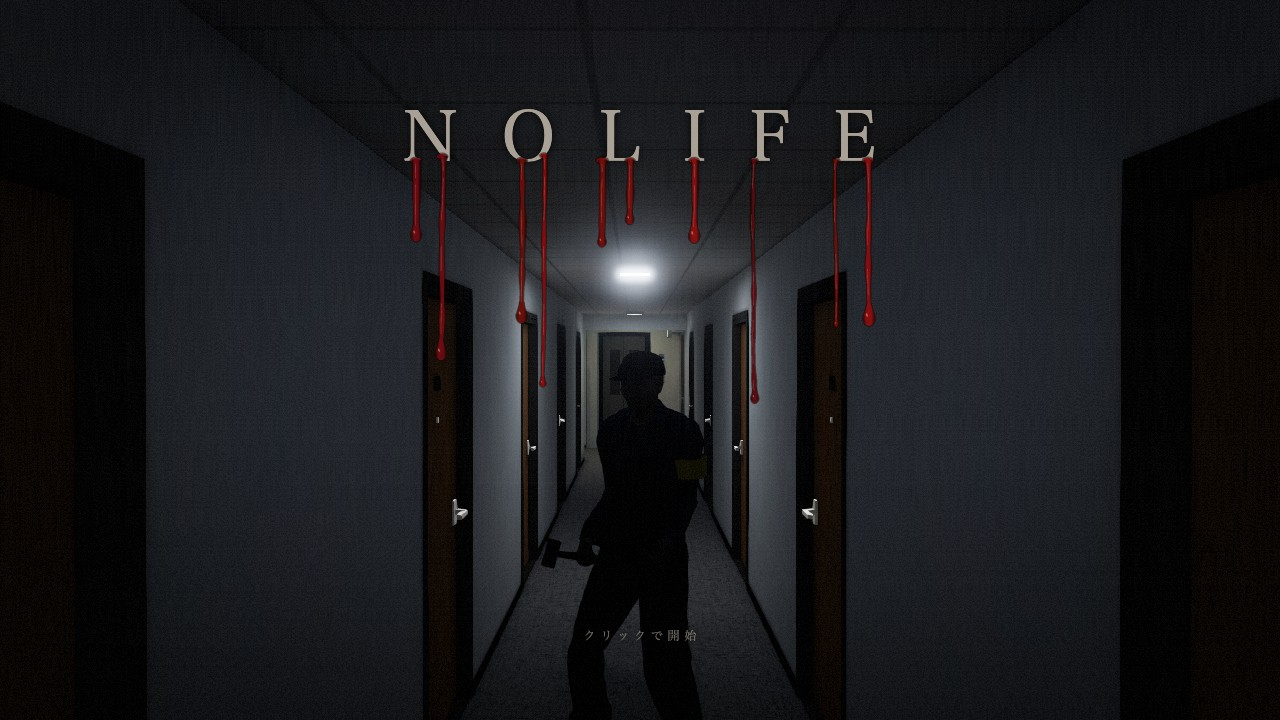
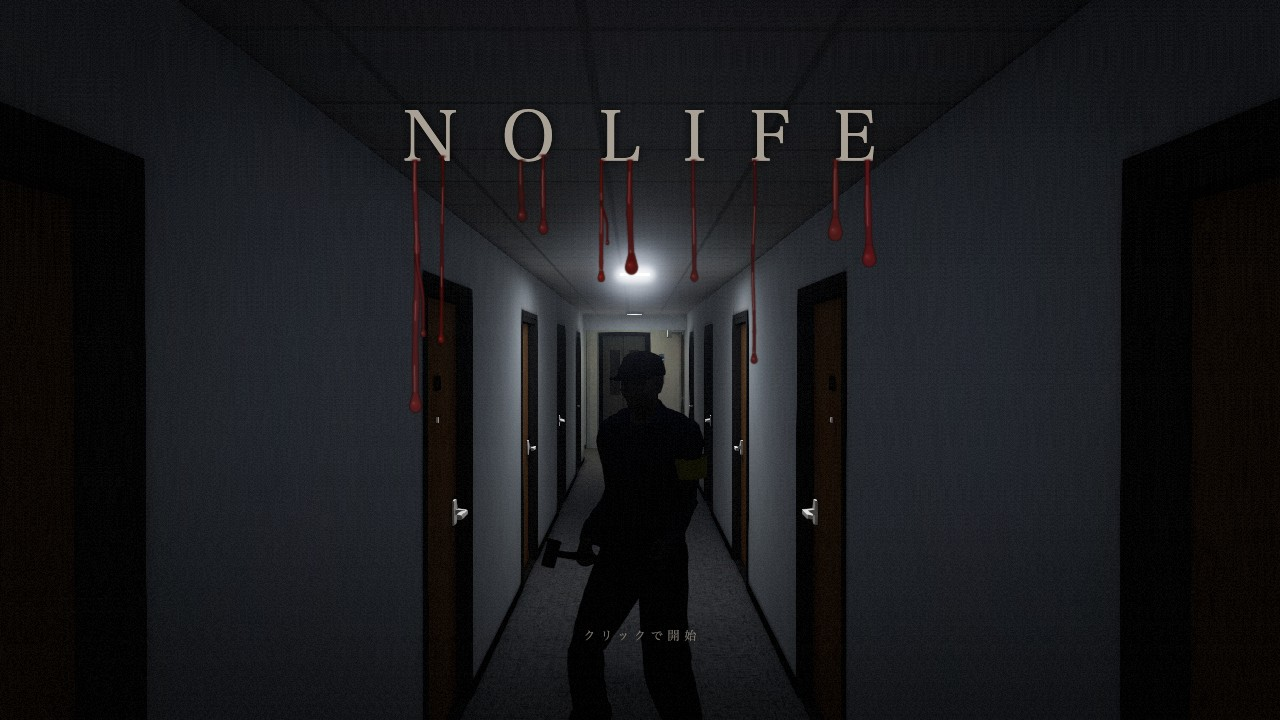
P6b-F1: #1 タイトルの血を描き直し(差し戻し: 朱色・一様・真っ直ぐ → 暗い赤・太さ不均一・揺れと枝分かれ)
- 色: 基調 #4a0808〜#7a1010、玉だけ #8a1414。筋は上 0.95 → 下 0.7 の半透明＋暗い下地で背景を沈める。伸び切って 10 秒で乾く(彩度 −30%・明度 −20%)
- 形: 幅 2〜6px、本の中で上下 1.4〜1.6 倍、1〜2px の低周波の揺れ、2 本が枝分かれ、先端は幅 1.6 倍のしずく形、出所は文字の下端の薄い横の溜まり(8〜14px)
- 質感: 縁 1px #2a0404、1px・0.25 の艶、血の層を 0.6px ぼかして重ねる
- 動き: 2〜3 本が途中で 3〜8 秒止まって再び流れる
- 30 秒の滴の平均色 R 68.7・G 26.9・B 28.3。?test=tutorial 0 番に止まる本・枝・乾きの検査を追加(6/6)。スクショ 15・30 秒を撮り直し

diff --git a/src/title.js b/src/title.js
@@ -24,7 +24,7 @@ export const TITLE = {
   flicker: { every: [3, 8], dur: [0.2, 0.6], blinks: [2, 4] },
   outage: { every: [20, 40], dur: [0.4, 0.8], back: 0.1, lm: 0.02, amb: 0.5, expo: 0.6, enemyLamp: 0.12 },   // 消えている間は環境光と露出も落とす(真っ黒に近く、管理人の輪郭だけ僅かに)
   text: { size: 0.096, y: 0.19, spacing: 0.62, color: '#a9a196', font: '"Hiragino Mincho ProN", "Yu Mincho", "YuMincho", serif', in: 3.2, delay: 0.4 },
-  blood: { n: [8, 10], w: [3, 6], start: 2.2, done: [20, 30], len: [0.07, 0.36] },   // 太さは CSS px、長さは画面の高さの割合
+  blood: { n: [8, 10], w: [2, 6], start: 2.2, done: [20, 30], len: [0.07, 0.36], stall: [3, 8], stalls: [2, 3], branches: 2, dry: 10, blur: 0.6 },   // 太さは CSS px、長さは画面の高さの割合
 };
 
 const CSS = `
@@ -275,7 +275,17 @@ export class Title {
     g.drawImage(this.bg.ink.text, 0, 0);
     g.restore();
     this._dripModel(t);
-    for (const d of this.bg.drips) drawDrip(g, d, dpr, alpha);   // 太さは CSS px(3〜6px)
+    // 血は別の層に描いてから僅かにぼかして重ねる(線の縁が硬い「定規の線」に見えないように)
+    let L = this.bg.inkBlood;
+    if (!L || L.width !== W || L.height !== H) { L = this.bg.inkBlood = document.createElement('canvas'); L.width = W; L.height = H; }
+    const lg = L.getContext('2d');
+    lg.clearRect(0, 0, W, H);
+    for (const d of this.bg.drips) drawDrip(lg, d, dpr);   // 太さは CSS px(2〜6px)
+    g.save();
+    g.globalAlpha = alpha;
+    g.filter = `blur(${(TITLE.blood.blur * dpr).toFixed(2)}px)`;
+    g.drawImage(L, 0, 0);
+    g.restore();
   }
 
   // 文字を描いた層と、文字の下端(列ごとの一番下の画素)から選んだ滴の起点
@@ -323,13 +333,18 @@ export class Title {
         }
       }
       used.sort((a, b) => a[0] - b[0]);
-      B.drips = used.map((b) => makeDrip(R, b[0] / W, b[1] / H, D));
+      // 途中で長く止まる本(2〜3 本)と枝分かれする本(2 本)を先に決める
+      const order = used.map((_, i) => i).sort(() => R() - 0.5);
+      const nStall = D.stalls[0] + Math.floor(R() * (D.stalls[1] - D.stalls[0] + 1));
+      const stallSet = new Set(order.slice(0, nStall)), branchSet = new Set(order.slice(nStall, nStall + D.branches));
+      B.drips = used.map((b, i) => makeDrip(R, b[0] / W, b[1] / H, D, { stall: stallSet.has(i), branch: branchSet.has(i) }));
     }
     for (const d of B.drips) {
       const tt = t - D.start - d.delay;
       d.len = d.L * lenAt(d, tt);
       d.done = tt >= d.T;
       d.pool = d.done ? smooth((tt - d.T) / 2.0) : 0;
+      d.dry = d.done ? Math.min(1, (tt - d.T) / D.dry) : 0;   // 伸び切ってから D.dry 秒で乾いて暗くなる
     }
   }
 
@@ -338,29 +353,41 @@ export class Title {
     return { active: this.active, shown: !!this.root, leaving: !!this.leaving, name: this.root ? this.root.querySelector('.name').textContent : null,
       start: this.root ? this.root.querySelector('.start').textContent : null,
       bg: B ? { t: +B.t.toFixed(2), ready: B.ready, flicks: B.flicks, outs: B.outs, lights: B.lights, black: +(this.blackV ?? 1).toFixed(3),
-        drips: B.drips ? B.drips.map((d) => ({ x: +d.x.toFixed(3), len: +d.len.toFixed(4), L: +d.L.toFixed(4), w: +d.w.toFixed(2), T: +(d.delay + d.T).toFixed(2), done: d.done })) : null } : null };
+        drips: B.drips ? B.drips.map((d) => ({ x: +d.x.toFixed(3), len: +d.len.toFixed(4), L: +d.L.toFixed(4), w: +d.w.toFixed(2), wTop: +d.wTop.toFixed(2), wBot: +d.wBot.toFixed(2), T: +(TITLE.blood.start + d.delay + d.T).toFixed(2), done: d.done, dry: +d.dry.toFixed(2), stall: d.stallSec ? +d.stallSec.toFixed(2) : 0, branch: !!d.br })) : null } : null };
   }
 }
 
 // ---------------------------------------------------------------- 滴(1 本)
-// 伸びの予定: 動く区間と止まる区間を交互に(本ごとに区間の数・長さ・速さが違う)。delay + T 秒で長さ L に着く(T + delay は 20〜30 秒)
-function makeDrip(R, x, y, D) {
+// 伸びの予定: 動く区間と止まる区間を交互に(本ごとに区間の数・長さ・速さが違う)。delay + T 秒で長さ L に着く(T + delay は 20〜30 秒)。
+//  opts.stall = 途中で 3〜8 秒止まってから再び流れる本、opts.branch = 途中から細い枝が分かれる本
+function makeDrip(R, x, y, D, opts = {}) {
   const done = D.done[0] + (D.done[1] - D.done[0]) * R();
   const delay = R() * 3.0, T = done - D.start - delay;
-  const n = 3 + Math.floor(R() * 4);            // 動く区間の数
+  const n = 3 + Math.floor(R() * 3);            // 動く区間の数
   const seg = [];
   for (let i = 0; i < n; i++) {
     seg.push({ move: true, w: 0.6 + R() * 1.6, d: 0.3 + R() ** 1.7 * 1.6 });     // 区間の時間の重み・進む量の重み
-    if (i < n - 1) seg.push({ move: false, w: 0.4 + R() * 2.2 });
+    if (i < n - 1) seg.push({ move: false, w: 0.15 + R() * 0.5 });             // 短いためらい
   }
-  const tw = seg.reduce((a, s) => a + s.w, 0), dw = seg.reduce((a, s) => a + (s.move ? s.d : 0), 0);
+  const dw = seg.reduce((a, s) => a + (s.move ? s.d : 0), 0);
+  // 長く止まる本: 真ん中あたりの止まる区間を 3〜8 秒に(残りの時間を動く区間に配る)
+  let stallSec = 0, longIdx = -1;
+  if (opts.stall) { stallSec = D.stall[0] + (D.stall[1] - D.stall[0]) * R(); longIdx = 2 * Math.floor(R() * (n - 1)) + 1; }   // 止まる区間(奇数番)のどれか
+  const restW = seg.reduce((a, s, i) => a + (i === longIdx ? 0 : s.w), 0), restT = T - stallSec;
   let t = 0, l = 0;
-  for (const s of seg) { s.t0 = t; t += s.w / tw * T; s.t1 = t; s.l0 = l; if (s.move) l += s.d / dw; s.l1 = l; }
-  const L = D.len[0] + (D.len[1] - D.len[0]) * R() ** 1.3;
+  seg.forEach((s, i) => { s.t0 = t; t += i === longIdx ? stallSec : s.w / restW * restT; s.t1 = t; s.l0 = l; if (s.move) l += s.d / dw; s.l1 = l; });
+  const L = D.len[0] + (D.len[1] - D.len[0]) * R() ** 1.3;   // 長さが 7〜36% で時間は 20〜30 秒 = 速さは本ごとに 0.5〜2 倍以上違う
   const w = D.w[0] + (D.w[1] - D.w[0]) * R();
+  // 上下で幅が約 1.5 倍変わる(上は細い筋、下へ行くほど重さで太り、玉になる)
+  const wTop = w * (0.66 + 0.08 * R()), wBot = w * (1.06 + 0.12 * R());
   const k = R();
-  const rgb = [90 + k * 48 | 0, 10 + R() * 8 | 0, 10 + R() * 8 | 0];   // #5a0a0a〜#8a1212
-  return { x, y, L, w, T, delay, seg, rgb, wob: R() * 6.28, wobA: 0.25 + R() * 0.55, len: 0, done: false, pool: 0, k };
+  const rgb = [74 + k * 48 | 0, 8 + R() * 8 | 0, 8 + R() * 8 | 0];   // #4a0808〜#7a1010
+  const dp = { x, y, L, w, wTop, wBot, T, delay, seg, rgb, k, len: 0, done: false, pool: 0, dry: 0, stallSec,
+    // 低い周波数の揺れ(1〜2px): 2 つの正弦の和
+    wob: [R() * 6.28, R() * 6.28], wobA: [0.7 + R() * 0.5, 0.3 + R() * 0.4], wobF: [0.016 + R() * 0.012, 0.04 + R() * 0.02],
+    poolW: 8 + R() * 6 };   // 文字の下端の横に薄く広がった溜まり(幅 8〜14px)
+  if (opts.branch) dp.br = { at: 0.22 + 0.25 * R(), len: 0.3 + 0.2 * R(), side: R() < 0.5 ? -1 : 1, drift: 5 + R() * 5, w: 0.5 + 0.15 * R() };
+  return dp;
 }
 function lenAt(d, tt) {
   if (tt <= 0) return 0;
@@ -374,70 +401,98 @@ function lenAt(d, tt) {
   }
   return 1;
 }
-// 描く: 濃い輪郭 → 本体(縁が暗く中央が少し明るい。止まった所は少し太い)→ 中央寄りの細い艶(途切れる)→ 先端の玉(しずく形)→ 伸び切ったら下端の溜まり
-//  太さ w は CSS px(×dpr)。長さ・位置は画面の割合
-function drawDrip(g, d, px, alpha) {
-  const W = g.canvas.width, H = g.canvas.height, s = px;
-  const x0 = d.x * W, y0 = d.y * H, len = d.len * H, w = d.w * s;
-  const [r, gg, b] = d.rgb;
-  const col = (k, a) => `rgba(${Math.min(255, r * k) | 0},${Math.min(255, gg * k) | 0},${Math.min(255, b * k) | 0},${a * alpha})`;
-  const base = col(1, 0.94), dark = col(0.34, 0.9), rim = col(0.22, 0.55);
-  const cxAt = (y) => { const u = (y - y0) / s; return x0 + (Math.sin(u * 0.045 + d.wob) * d.wobA + Math.sin(u * 0.013 + d.wob * 1.7) * d.wobA * 1.6) * s; };
-  // 止まっていた所(通り過ぎた区間)は少し膨らむ
-  const beads = d.seg.filter((q) => !q.move && q.l0 * d.L * H < len - 2 * w).map((q) => y0 + q.l0 * d.L * H);
-  const wAt = (y) => {
-    const u = (y - y0) / s;
-    let k = 0.74 + 0.1 * Math.sin(u * 0.07 + d.wob * 2) + 0.07 * Math.sin(u * 0.19 + d.wob) + 0.6 * Math.max(0, 1 - u / 7);
-    for (const by of beads) k += 0.42 * Math.exp(-(((y - by) / (2.6 * w)) ** 2));
-    return w * k;
-  };
-  g.save();
-  // 文字の下端に付いた溜まり(横に平たい)
-  g.fillStyle = rim; g.beginPath(); g.ellipse(x0, y0 + 0.5 * s, w * 1.15 + s, w * 0.62 + s, 0, 0, Math.PI * 2); g.fill();
-  g.fillStyle = base; g.beginPath(); g.ellipse(x0, y0 + 0.5 * s, w * 1.05, w * 0.52, 0, 0, Math.PI * 2); g.fill();
-  const step = Math.max(1, 1.5 * s);
-  const L = [], Rr = [];
-  if (len > step) for (let y = y0; y <= y0 + len; y += step) { const c = cxAt(y), hw = wAt(y) / 2; L.push([c - hw, y]); Rr.push([c + hw, y]); }
-  const poly = (grow) => { g.beginPath(); g.moveTo(L[0][0] - grow, L[0][1]); for (const p of L) g.lineTo(p[0] - grow, p[1]); for (let i = Rr.length - 1; i >= 0; i--) g.lineTo(Rr[i][0] + grow, Rr[i][1]); g.closePath(); };
-  // 先端の玉: しずく形(上が細く筋につながり、下が丸い)。伸び切った後は重さで少し膨らんで溜まる
-  const ty = y0 + len, tx = cxAt(ty);
-  const rx = w * (0.78 + 0.12 * Math.sin(d.k * 9)) * (1 + 0.45 * d.pool), ry = rx * (1.25 + 0.15 * d.pool);
-  const cy = ty + ry * 0.35;
-  const drop = (grow) => {
+// 色: 乾く(dry 0→1)と彩度 −30%・明度 −20%
+function dryRGB([r, g, b], dry, gain = 1) {
+  r *= gain; g *= gain; b *= gain;
+  const mx = Math.max(r, g, b), mn = Math.min(r, g, b);
+  const v = mx * (1 - 0.2 * dry), s0 = mx > 0 ? (mx - mn) / mx : 0, s = s0 * (1 - 0.3 * dry);
+  const f = (c) => { const sat = mx > mn ? (c - mn) / (mx - mn) : 0; return (v * (1 - s) + v * s * sat) | 0; };   // 同じ色相で彩度と明度を変える
+  return [Math.min(255, f(r)), Math.min(255, f(g)), Math.min(255, f(b))];
+}
+// 1 本の筋(中心線 cx(y)・幅 wAt(y))を描く: 本体(上 0.9 → 下 0.6 の半透明)→ 縁 1px の濃い輪郭(#2a0404)→ 中央の 1px の艶(アルファ 0.25)
+function drawStrand(g, cx, wAt, ya, yb, step, rgb, aTop, aBot, px, gloss = true) {
+  if (yb - ya < step) return;
+  const Lp = [], Rp = [];
+  for (let y = ya; y <= yb; y += step) { const c = cx(y), hw = wAt(y) / 2; Lp.push([c - hw, y]); Rp.push([c + hw, y]); }
+  const path = () => { g.beginPath(); g.moveTo(Lp[0][0], Lp[0][1]); for (const p of Lp) g.lineTo(p[0], p[1]); for (let i = Rp.length - 1; i >= 0; i--) g.lineTo(Rp[i][0], Rp[i][1]); g.closePath(); };
+  const [r, gg, b] = rgb;
+  // 下地: 半透明の分だけ背景を暗く沈める(血は光を吸う = 明るい天井の上でも朱色に浮かず黒ずんで見える)
+  g.fillStyle = 'rgba(8,2,2,0.7)'; path(); g.fill();
+  const gr = g.createLinearGradient(0, ya, 0, yb);
+  gr.addColorStop(0, `rgba(${r},${gg},${b},${aTop})`); gr.addColorStop(1, `rgba(${r},${gg},${b},${aBot})`);
+  g.fillStyle = gr; path(); g.fill();
+  const er = g.createLinearGradient(0, ya, 0, yb);
+  er.addColorStop(0, `rgba(42,4,4,${aTop})`); er.addColorStop(1, `rgba(42,4,4,${aBot * 0.9})`);
+  g.strokeStyle = er; g.lineWidth = px; g.lineJoin = 'round';
+  g.beginPath(); g.moveTo(Lp[0][0], Lp[0][1]); for (const p of Lp) g.lineTo(p[0], p[1]); g.stroke();
+  g.beginPath(); g.moveTo(Rp[0][0], Rp[0][1]); for (const p of Rp) g.lineTo(p[0], p[1]); g.stroke();
+  if (!gloss) return;
+  g.strokeStyle = 'rgba(255,212,204,0.25)'; g.lineWidth = px; g.lineCap = 'round';   // 白っぽい艶(血の色を映して僅かに赤い)
+  g.beginPath();
+  let pen = false;
+  for (let y = ya + 3 * px; y < yb - 2 * px; y += step) {
+    const on = Math.sin(y / px * 0.09 + r) + 0.5 * Math.sin(y / px * 0.027 + b) > 0.1;   // ところどころ途切れる(光った所だけ)
+    const xx = cx(y) - wAt(y) * 0.12;
+    if (on && !pen) { g.moveTo(xx, y); pen = true; } else if (on) g.lineTo(xx, y); else pen = false;
+  }
+  g.stroke();
+}
+// 先端の玉(幅の 1.6 倍の楕円。上は筋から細い首でつながる = しずく形)。明るいのは玉の上の小さな所だけ
+function drawBead(g, tx, ty, wid, rgb, bead, a, px) {
+  const rx = wid * 0.8, ry = rx * 1.2, cy = ty + ry * 0.35;
+  const shape = (grow) => {
     g.beginPath();
-    g.moveTo(tx - w * 0.35 - grow, ty - ry * 1.4);
-    g.quadraticCurveTo(tx - rx * 0.6 - grow, ty - ry * 0.4, tx - rx - grow, cy);
+    g.moveTo(tx - wid * 0.32 - grow, ty - ry * 1.5);
+    g.quadraticCurveTo(tx - rx * 0.75 - grow, ty - ry * 0.5, tx - rx - grow, cy);
     g.ellipse(tx, cy, rx + grow, ry + grow, 0, Math.PI, 0, true);
-    g.quadraticCurveTo(tx + rx * 0.6 + grow, ty - ry * 0.4, tx + w * 0.35 + grow, ty - ry * 1.4);
+    g.quadraticCurveTo(tx + rx * 0.75 + grow, ty - ry * 0.5, tx + wid * 0.32 + grow, ty - ry * 1.5);
     g.closePath();
   };
-  // 輪郭(筋と玉の両方)→ 本体(筋 → 玉)の順に塗る(玉の輪郭が筋を横切らない)
-  g.fillStyle = rim;
-  if (L.length > 1) { poly(0.7 * s + 0.3); g.fill(); }
-  drop(0.7 * s + 0.3); g.fill();
-  if (L.length > 1) {
-    const gr = g.createLinearGradient(x0 - w * 0.9, 0, x0 + w * 0.9, 0);
-    gr.addColorStop(0, dark); gr.addColorStop(0.28, base); gr.addColorStop(0.45, col(1.04, 0.95)); gr.addColorStop(0.72, base); gr.addColorStop(1, dark);
-    g.fillStyle = gr; poly(0); g.fill();
-  }
-  const lg = g.createLinearGradient(tx - rx * 1.05, 0, tx + rx * 1.05, 0);   // 玉も筋と同じ横の陰影(首の所が暗い帯にならない)
-  lg.addColorStop(0, dark); lg.addColorStop(0.3, base); lg.addColorStop(0.5, col(1.03, 0.95)); lg.addColorStop(0.7, base); lg.addColorStop(1, dark);
-  g.fillStyle = lg; drop(0); g.fill();
-  const rg = g.createRadialGradient(tx - rx * 0.25, cy - ry * 0.15, 0, tx - rx * 0.25, cy - ry * 0.15, rx * 0.9);   // 玉の丸み(上寄りの明るみ)
-  rg.addColorStop(0, col(1.2, 0.35)); rg.addColorStop(1, col(1.2, 0));
+  g.fillStyle = 'rgba(8,2,2,0.7)'; shape(px * 0.7); g.fill();
+  g.fillStyle = `rgba(42,4,4,${a * 0.85})`; shape(px * 0.7); g.fill();
+  g.fillStyle = `rgba(${rgb[0]},${rgb[1]},${rgb[2]},${a})`; shape(0); g.fill();
+  const [r, gg, b] = bead;
+  const rg = g.createRadialGradient(tx - rx * 0.2, cy - ry * 0.25, 0, tx - rx * 0.2, cy - ry * 0.25, rx * 0.75);
+  rg.addColorStop(0, `rgba(${r},${gg},${b},${a * 0.9})`); rg.addColorStop(1, `rgba(${r},${gg},${b},0)`);
   g.fillStyle = rg; g.beginPath(); g.ellipse(tx, cy, rx, ry, 0, 0, Math.PI * 2); g.fill();
-  if (L.length > 1) {
-    // 艶: 中央より少し左の細い線(ところどころ途切れる)
-    g.strokeStyle = `rgba(255,205,195,${0.24 * alpha})`; g.lineWidth = Math.max(0.6, 0.12 * w); g.lineCap = 'round';
-    g.beginPath();
-    let pen = false;
-    for (let y = y0 + 4 * s; y < y0 + len - w * 1.2; y += step) {
-      const on = Math.sin((y - y0) / s * 0.11 + d.wob * 3) + 0.6 * Math.sin((y - y0) / s * 0.031 + d.wob) > -0.35;
-      const xx = cxAt(y) - wAt(y) * 0.16;
-      if (on && !pen) { g.moveTo(xx, y); pen = true; } else if (on) g.lineTo(xx, y); else pen = false;
+  g.fillStyle = 'rgba(255,232,226,0.25)'; g.beginPath(); g.ellipse(tx - rx * 0.38, cy - ry * 0.35, Math.max(0.5, px * 0.55), Math.max(0.6, px * 0.8), -0.4, 0, Math.PI * 2); g.fill();
+}
+// 1 本を描く(太さは CSS px × px。長さ・位置は画面の割合)
+function drawDrip(g, d, px) {
+  const W = g.canvas.width, H = g.canvas.height;
+  const x0 = d.x * W, y0 = d.y * H, len = d.len * H, Lfull = d.L * H;
+  const rgb = dryRGB(d.rgb, d.dry), bead = dryRGB([138, 20, 20], d.dry);   // 玉だけ僅かに明るい #8a1414
+  const cx = (y) => { const u = (y - y0) / px; return x0 + (Math.sin(u * d.wobF[0] + d.wob[0]) * d.wobA[0] + Math.sin(u * d.wobF[1] + d.wob[1]) * d.wobA[1]) * px; };
+  const beads = d.seg.filter((q) => !q.move && q.l0 * Lfull < len - 4 * px).map((q) => y0 + q.l0 * Lfull);   // 止まっていた所は少し太い
+  const wAt = (y) => {
+    const u = Math.min(1, (y - y0) / Math.max(1, Lfull));
+    let w = d.wTop + (d.wBot - d.wTop) * u ** 0.8;
+    w *= 1 + 0.08 * Math.sin((y - y0) / px * 0.11 + d.wob[1]);
+    for (const by of beads) w *= 1 + 0.22 * Math.exp(-(((y - by) / (4 * px)) ** 2));
+    return w * px;
+  };
+  const aBot = 0.95 - 0.25 * Math.min(1, len / Math.max(1, Lfull));   // 下へ行くほど薄く(伸び切ると 0.7。明るい天井の上でも黒ずんで見える下限)
+  g.save();
+  // 出所: 文字の下端に沿った薄い横の溜まり(幅 8〜14px)
+  const pw = d.poolW * px * (0.6 + 0.4 * Math.min(1, len / (12 * px)));
+  const pg = g.createRadialGradient(x0, y0, 0, x0, y0, pw / 2);
+  pg.addColorStop(0, `rgba(${rgb[0]},${rgb[1]},${rgb[2]},0.75)`); pg.addColorStop(0.7, `rgba(${rgb[0]},${rgb[1]},${rgb[2]},0.45)`); pg.addColorStop(1, `rgba(${rgb[0]},${rgb[1]},${rgb[2]},0)`);
+  g.fillStyle = pg; g.beginPath(); g.ellipse(x0, y0 + 0.5 * px, pw / 2, 1.6 * px, 0, 0, Math.PI * 2); g.fill();   // 溜まりは薄いまま(文字の縁に沿って滲んだ跡)
+  const step = Math.max(1, 1.5 * px);
+  drawStrand(g, cx, wAt, y0, y0 + len, step, rgb, 0.95, aBot, px);
+  // 枝: 本線の途中から細く横へ逸れて垂れる(本線がそこを過ぎてから伸びる)
+  if (d.br) {
+    const by0 = y0 + d.br.at * Lfull;
+    const blen = Math.max(0, Math.min(d.br.len * Lfull, (len - d.br.at * Lfull) * 0.6));
+    if (blen > 2 * px) {
+      const bx = (y) => cx(by0) + d.br.side * d.br.drift * px * smooth((y - by0) / Math.max(1, d.br.len * Lfull) * 1.6) + Math.sin((y - by0) / px * 0.05 + d.wob[0]) * 0.4 * px;
+      const bw = (y) => wAt(by0) * d.br.w * (1 - 0.2 * (y - by0) / Math.max(1, d.br.len * Lfull));
+      const aB = 0.95 - 0.25 * d.br.at;
+      drawStrand(g, bx, bw, by0, by0 + blen, step, rgb, aB, aB * 0.8, px, false);
+      drawBead(g, bx(by0 + blen), by0 + blen, bw(by0 + blen) * 1.2, rgb, bead, aB * 0.8, px);
     }
-    g.stroke();
   }
-  g.fillStyle = `rgba(255,220,210,${0.38 * alpha})`; g.beginPath(); g.ellipse(tx - rx * 0.36, cy - ry * 0.3, Math.max(0.5, rx * 0.16), Math.max(0.6, ry * 0.22), -0.35, 0, Math.PI * 2); g.fill();
+  // 先端の玉(伸び切ると少し膨らんで溜まる)
+  if (len > 1) drawBead(g, cx(y0 + len), y0 + len, wAt(y0 + len) * (1 + 0.25 * d.pool), rgb, bead, aBot + 0.1, px);
   g.restore();
 }

diff --git a/tools/test_tutorial.js b/tools/test_tutorial.js
@@ -120,13 +120,16 @@ export async function run(N) {
     const gaps = flicks.slice(1).map((f, i) => +(f.at - flicks[i].at).toFixed(2));
     const grows = lens.length > 25 && drips.every((d, k) => lens[3][k] < d.len && lens[20][k] <= d.len);
     const doneBy30 = drips.every((d) => d.T >= 20 && d.T <= 30 && d.done);
-    const stalls = drips.map((_, k) => lens.slice(3, 30).filter((v, j, A) => j > 0 && v[k] === A[j - 1][k] && v[k] < drips[k].L).length);   // 途中で止まった秒の数(本ごと)
+    const stalls = drips.map((_, k) => lens.slice(3, 30).filter((v, j, A) => j > 0 && v[k] === A[j - 1][k] && v[k] > 0 && v[k] < drips[k].L).length);   // 途中で止まった秒の数(本ごと。1 秒ごとの標本)
     const titleBg = { frames: n, enemyOk, camOk, exposure: N.renderer.toneMappingExposure, flicks: flicks.length, flickDur: flicks.map((f) => f.dur), blinks: flicks.map((f) => f.blinks), gaps,
-      outs: outs.map((o) => [o.at, o.dur]), drips: drips.length, widths: drips.map((d) => d.w), doneBy30, grows, stalls, aiFrozen: N.ai.time === aiTime0, levelLog: N.levelLog.length - simT0 };
+      outs: outs.map((o) => [o.at, o.dur]), drips: drips.length, widths: drips.map((d) => d.w), stallSec: drips.map((d) => d.stall), branches: drips.filter((d) => d.branch).length, doneBy30, grows, stalls, aiFrozen: N.ai.time === aiTime0, levelLog: N.levelLog.length - simT0 };
     const bgPass = n > 1500 && enemyOk === n && camOk === n && titleBg.exposure === 4.3
       && flicks.length >= 4 && flicks.every((f) => f.dur >= 0.2 && f.dur <= 0.6 && f.blinks >= 2 && f.blinks <= 4) && gaps.every((g) => g >= 2.9 && g <= 8.9)
       && outs.length >= 1 && outs[0].at >= 20 && outs[0].at <= 40 && outs.every((o) => o.dur >= 0.4 && o.dur <= 0.8)
-      && drips.length >= 8 && drips.length <= 10 && drips.every((d) => d.w >= 3 && d.w <= 6) && doneBy30 && grows && stalls.filter((x) => x > 0).length >= 4 && titleBg.aiFrozen;
+      && drips.length >= 8 && drips.length <= 10 && drips.every((d) => d.w >= 2 && d.w <= 6 && d.wBot / d.wTop >= 1.3) && doneBy30 && grows && titleBg.aiFrozen
+      // 差し戻し(2026-11-04): 2〜3 本が途中で 3〜8 秒止まって再び流れる・2 本が枝分かれ・伸び切ってから乾く
+      && drips.filter((d) => d.stall >= 3 && d.stall <= 8).length >= 2 && drips.filter((d) => d.stall >= 3).length <= 3
+      && drips.every((d, k) => !(d.stall >= 3) || stalls[k] >= 2) && drips.filter((d) => d.branch).length >= 2 && drips.some((d) => d.dry > 0);
     // クリック → 1.4 秒で黒 → 片付け → チュートリアル(片付けの直後 = チュートリアルの開始前に、終わりの比較の基準を取る)
     ti.onRestored = () => { before = snapshot(); };
     ti.click();

diff --git a/docs/p6b-f1/NOTES.md b/docs/p6b-f1/NOTES.md
@@ -26,8 +26,12 @@
 - 背景: 4F の廊下の北端 (6.9, 床+1.75, 6.3) → (6.9, 床+1.6, 21)、視野角 46°、露出 4.3(案 C)。ごく小さなカメラの揺れ(±0.006 rad)。屋内なので外観の殻は出さない(`exterior.force = false`、片付けで戻す)
 - 管理人: 本体を演出体に(`ai.setState('SCRIPTED')`)。(6.85, 10.0)、こちら(北)を向いて −0.4 rad。`look_idle` の 5.3〜6.0 秒を 11 秒周期で往復(極低速 = 呼吸と体重移動)。look_idle の他の区間は体が横を向く(実測。0.6〜2.2 秒は真横)ので、こちらを向いてハンマーが右の腰の横に下がる区間だけを使う。grin 0.8
 - 文字と血: 2D キャンバス 1 枚(`#title canvas.ink`)。文字「NOLIFE」もこのキャンバスに描く(滴の起点を字形の下端に正確に合わせるため。DOM の `.name` は文言・テスト用に透明で残す)。高さ 9.6vh・中心 19vh・字間 0.62em・#a9a196
-  - 滴 8〜10 本(字画の下端の低い所から、間隔を空けて選ぶ)。太さ 3〜6 CSS px、色 #5a0a0a〜#8a1212、濃い輪郭(半透明の黒赤)・横の陰影(縁が暗く中央が少し明るい)・中央より左の細い艶(途切れ途切れ)・止まっていた所の膨らみ・しずく形の先端(丸みの明るみ)・伸び切ったら下端で溜まる(2 秒で膨らむ)
-  - 伸び方: 本ごとに「動く区間 3〜6 個と止まる区間」を交互に作り、0〜3 秒遅れて始まり 20〜30 秒で長さ(画面の高さの 7〜36%)に着いて保持。動く区間の中はゆっくり動き出して止まる
+  - 滴 8〜10 本(字画の下端の低い所から、間隔を空けて選ぶ)。**2026-11-04 差し戻しで描き直し**(朱色・一様な太さ・真っ直ぐで漫画的 → 下):
+    - 色: 基調 #4a0808〜#7a1010、先端の玉の上だけ僅かに明るい #8a1414。筋は上 0.95 → 下 0.7 の半透明(伸び切った時)。半透明の下に暗い下地(rgba(8,2,2,0.7))を敷き、明るい天井の上でも背景を沈めて黒ずんで見せる。伸び切ってから 10 秒で彩度 −30%・明度 −20%(乾く)
+    - 形: 幅は本ごとに 2〜6px、同じ本の中で上が細く下へ行くほど太る(下/上 ≒ 1.4〜1.6 倍)＋ ±8% の揺らぎ＋止まった所の小さな膨らみ。中心線は 2 つの低い周波数の正弦で 1〜2px 揺れる。2 本は途中から細い枝(幅 0.5〜0.65 倍)が横へ 5〜10px 逸れて垂れ、枝の先にも小さな玉。先端の玉は幅の 1.6 倍の楕円で、細い首で筋につながるしずく形。出所は文字の下端に沿った薄い横の溜まり(幅 8〜14px)
+    - 質感: 縁 1px を #2a0404、中央寄りに幅 1px・アルファ 0.25 の白っぽい艶(ところどころ途切れる)、血の層全体を 0.6px ぼかして重ねる
+    - 動き: 2〜3 本が途中で 3〜8 秒止まってから再び流れる(他はごく短いためらいだけ)。長さ 7〜36% を 20〜30 秒で伸びるので速さは本ごとに数倍違う。伸び切って保持
+    - 実測(1280×720 の 30 秒のスクショ、文字の下の範囲で R−max(G,B) > 25 の画素の平均): **R 68.7・G 26.9・B 28.3**(15 秒: R 72.6・G 19.4・B 21.4)
 - 常夜灯(`power.manual`): 3〜8 秒おきに手前 (6.9, 12.8)・奥 (6.9, 19.3) のどちらか 1 灯が 0.2〜0.6 秒に 2〜4 回明滅。20〜40 秒に 1 回、0.4〜0.8 秒の全消灯(ライトマップ 0.02・発光 0・環境光 0.5 倍・露出 0.6 倍・管理人だけに効く光 0.12 = 輪郭だけ僅かに残る)→ 戻りは 0.1 秒の点滅(点く 0.03・消える 0.04・点く)
 - 時間: タイトルの間は `main` の `step` がタイトルの `update(dt)` だけを呼ぶ(AI・物語・扉・EV・停電の時計は進まない。粒子の時刻だけ進める)。`pump` でも同じ
 - 入り: 4F が読めていなければ黒のまま。読めたら 2.6 秒で黒が明ける。文字は 0.4 秒後から 3.2 秒でフェードイン、血は 2.2 秒後から
